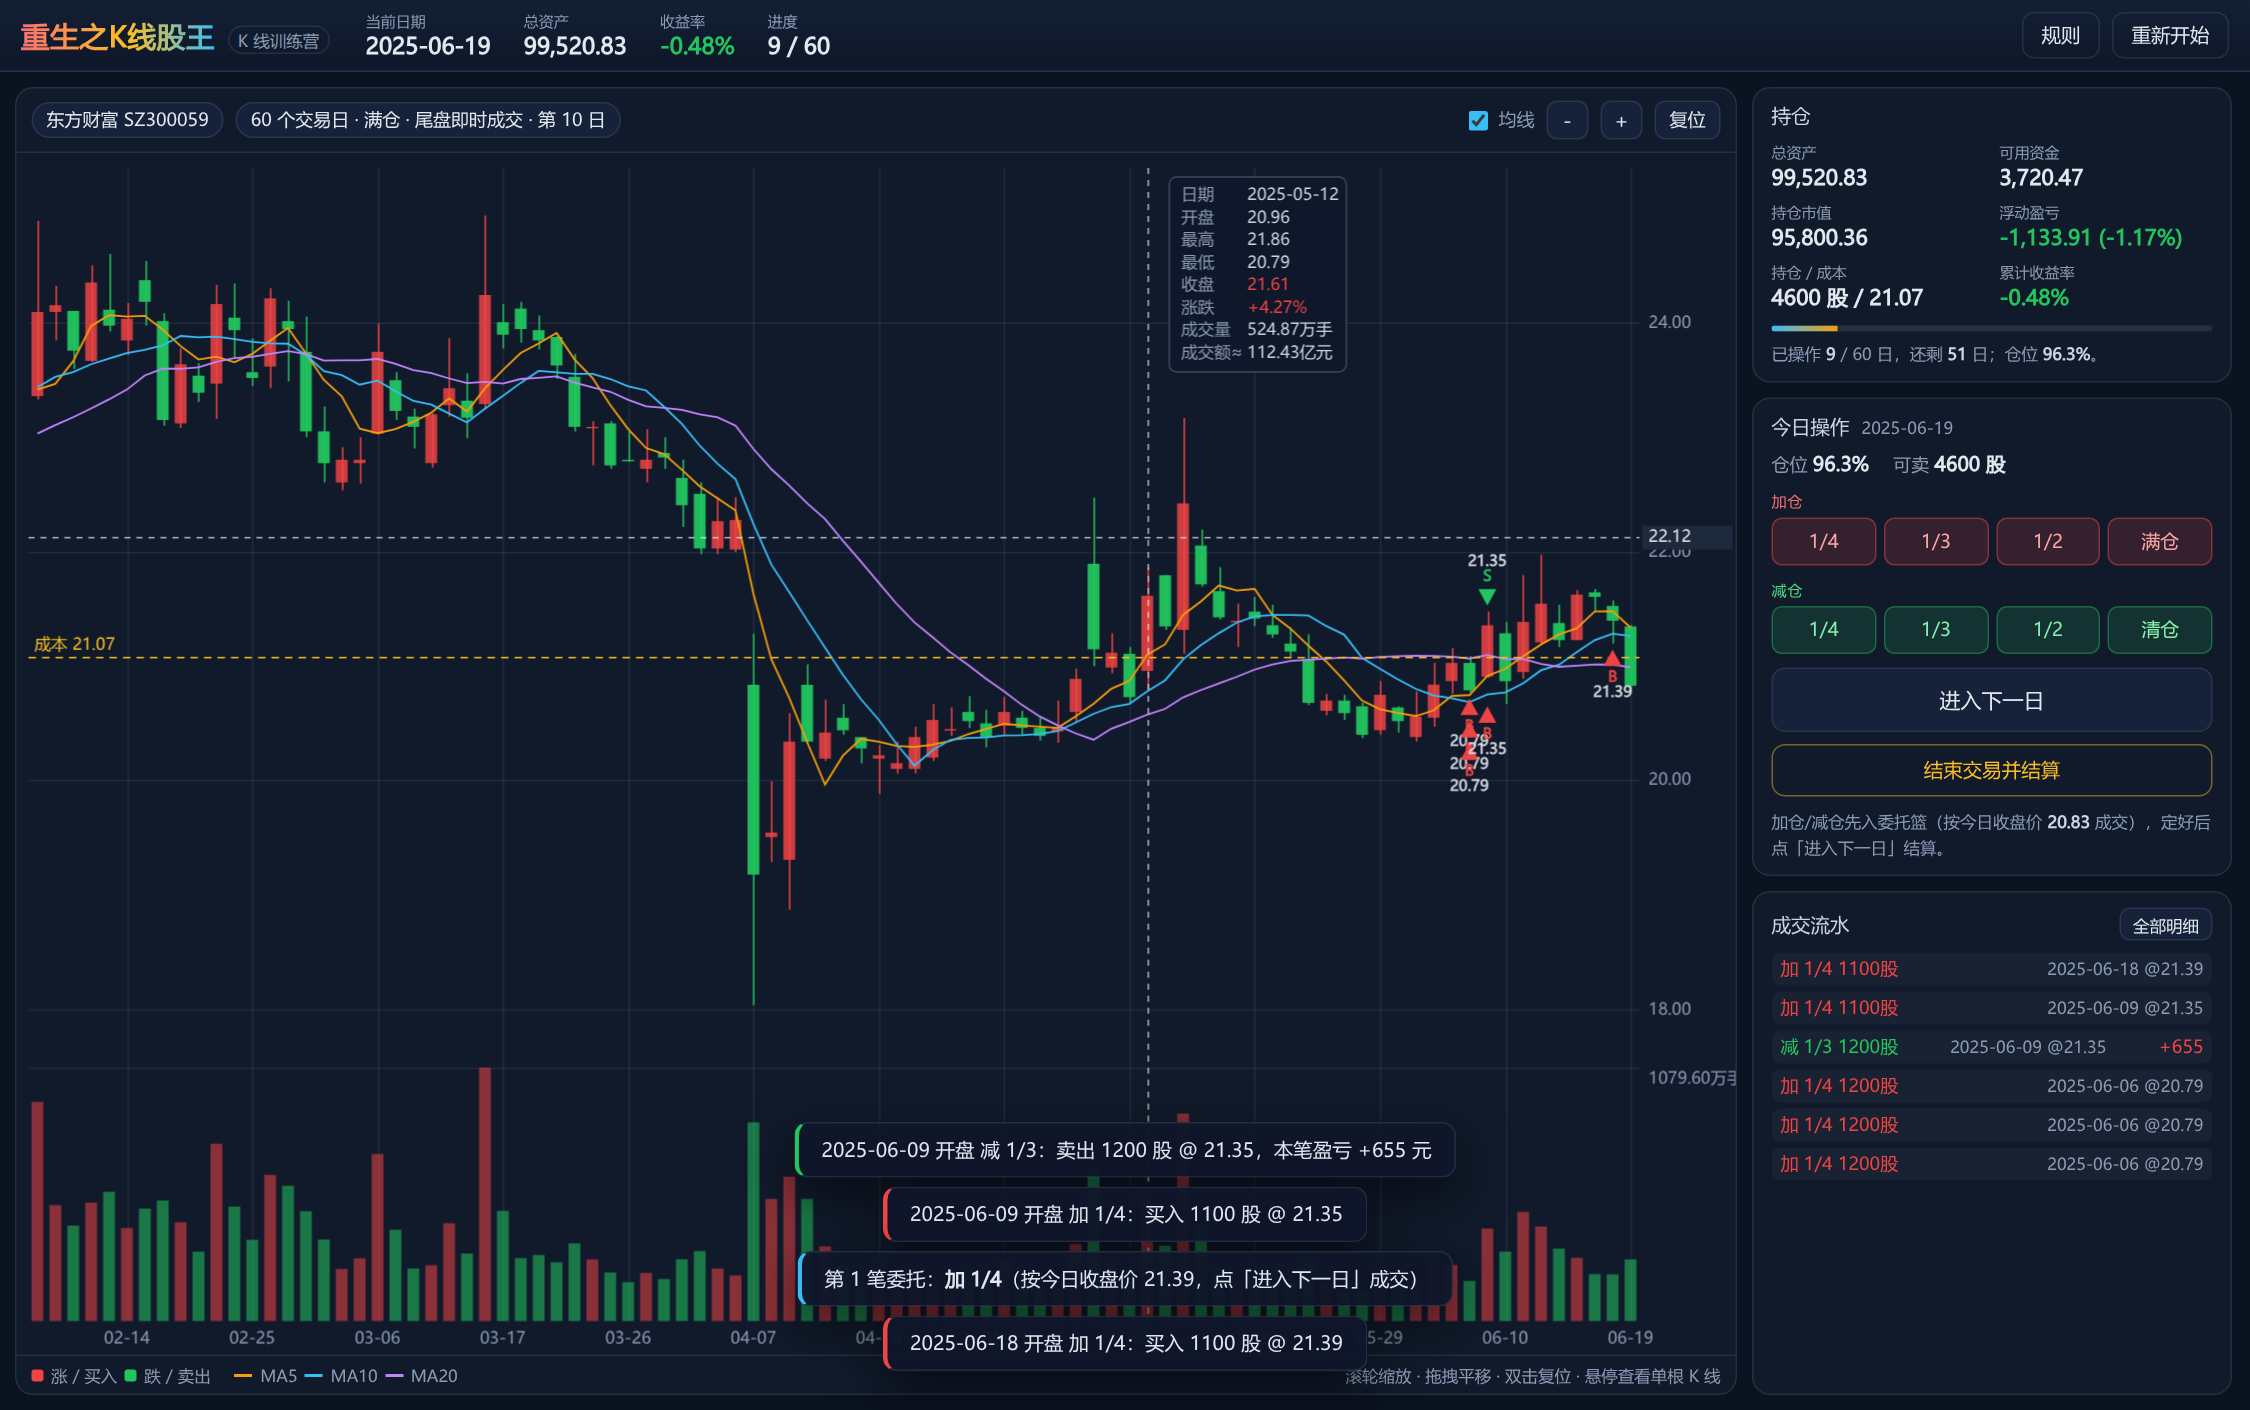
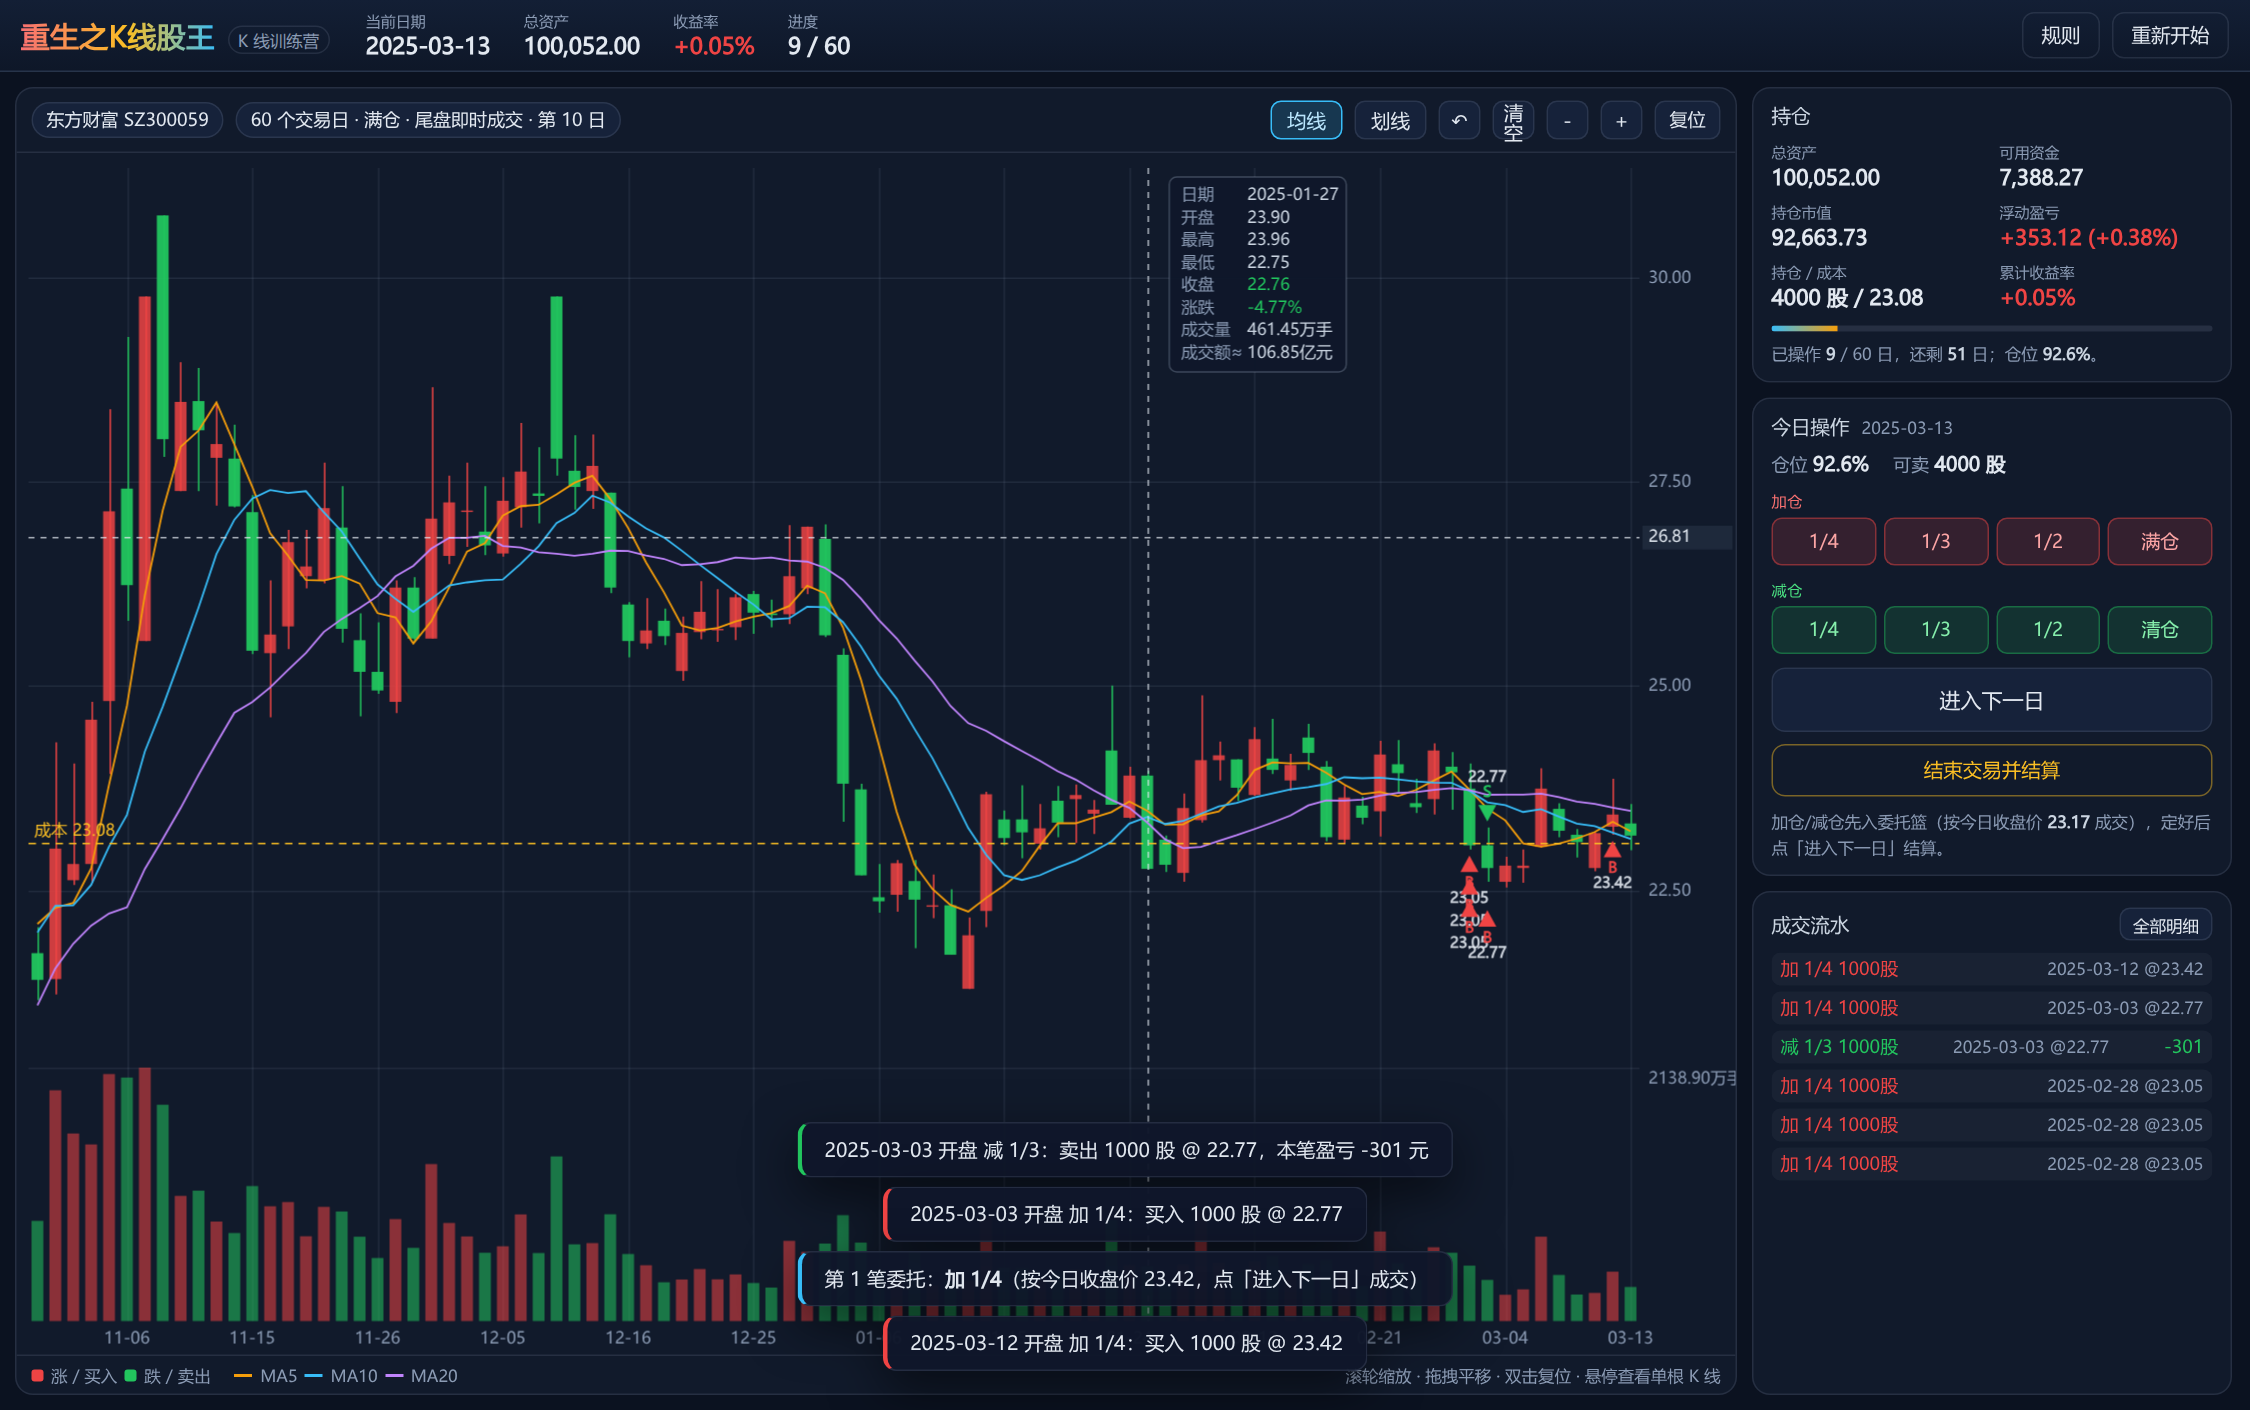
feat: 均线开关做成工具条按钮 + 新增手动划线
1. 均线开关
   - 原来藏在图上方的小勾选框里（功能是好的，但太不显眼），改成工具条上的「均线」开关按钮，
     默认打开、点一下关闭，有明确的开启/关闭高亮态与提示

2. 手动划线
   - 工具条新增：「划线」（模式开关）、「↶」撤销上一条、「清空」
   - 交互：按住鼠标=起点，拖动实时预览（虚线），松开=终点；太短（起终点重合）自动丢弃
   - 锚在数据坐标 (bar 下标, 价格)，所以缩放 / 平移 / 进入下一日都不会漂；
     线中点标出这条线两端的价格涨跌（涨红跌绿），端点画圆点，整条线裁剪在价格区内
   - 划线模式下拖拽=画线，退出后拖拽恢复平移；滚轮缩放两种模式下都可用
   - 换股票开新局时自动清空画线

3. 其它
   - 底部提示随模式切换（划线模式显示操作说明）
   - 暴露 window.__kline 调试/自动化钩子
   - E2E 新增两节：均线开关（像素级断言：默认 8486 → 关闭 0 → 再开恢复）、
     划线（数据坐标锚点、缩放不漂、撤销、清空、退出后恢复平移），全部通过
   - README 补玩法说明与截图 docs/assets/lines.png

diff --git a/docs/js/chart.js b/docs/js/chart.js
@@ -40,6 +40,9 @@ export class KChart {
     this.drag = null;
     this.maPeriods = [5, 10, 20];
     this.showMA = true;
+    this.lines = [];        // 手动画线，锚在「数据坐标」(bar 下标, 价格)，缩放平移后不会漂
+    this.drawMode = false;
+    this.draft = null;
     this._bindEvents();
     this._ro = new ResizeObserver(() => this.resize());
     this._ro.observe(canvas.parentElement || canvas);
@@ -51,6 +54,8 @@ export class KChart {
     this.bars = bars;
     this.limit = limit;
     this.hover = null;
+    this.lines = [];
+    this.draft = null;
     if (bars) {
       this.ma = this.maPeriods.map(p => movingAverage(bars.close, p));
       const end = limit;
@@ -73,6 +78,17 @@ export class KChart {
   }
 
   setMarks(marks) { this.marks = marks || []; this.render(); }
+
+  /** 手动划线模式开关 */
+  setDrawMode(on) {
+    this.drawMode = !!on;
+    this.draft = null;
+    this.canvas.style.cursor = this.drawMode ? 'crosshair' : 'default';
+    this.render();
+  }
+
+  clearLines() { this.lines = []; this.draft = null; this.render(); return this.lines.length; }
+  undoLine() { const n = this.lines.pop(); this.draft = null; this.render(); return !!n; }
   setCost(price) { this.cost = price; this.render(); }
   setShowMA(on) { this.showMA = !!on; this.render(); }
 
@@ -171,6 +187,7 @@ export class KChart {
 
     const yP = p => g.price.y + (pmax - p) / (pmax - pmin) * g.price.h;
     const yV = v => g.vol.y + g.vol.h - (v / vmax) * g.vol.h;
+    this._scale = { pmin, pmax };          // 供屏幕坐标 ↔ 数据坐标换算
 
     // --- 网格与价格轴
     ctx.font = '11px ui-monospace, SFMono-Regular, Menlo, monospace';
@@ -291,6 +308,48 @@ export class KChart {
       ctx.font = '11px ui-monospace, SFMono-Regular, Menlo, monospace';
     }
 
+    // --- 手动画线（剪裁在价格区内）
+    if (this.lines.length || this.draft) {
+      ctx.save();
+      ctx.beginPath();
+      ctx.rect(g.price.x, g.price.y, g.price.w, g.price.h);
+      ctx.clip();
+      const stroke = (L, dashed) => {
+        const x0 = this._x(L.i0, g), y0 = yP(L.p0);
+        const x1 = this._x(L.i1, g), y1 = yP(L.p1);
+        ctx.save();
+        ctx.strokeStyle = '#e2e8f0';
+        ctx.lineWidth = dashed ? 1.2 : 1.6;
+        ctx.shadowColor = 'rgba(2,6,23,.95)';
+        ctx.shadowBlur = 4;
+        if (dashed) ctx.setLineDash([5, 4]);
+        ctx.beginPath(); ctx.moveTo(x0, y0); ctx.lineTo(x1, y1); ctx.stroke();
+        ctx.restore();
+        if (!dashed) {
+          ctx.fillStyle = '#e2e8f0';
+          for (const [x, y] of [[x0, y0], [x1, y1]]) {
+            ctx.beginPath(); ctx.arc(x, y, 2.6, 0, Math.PI * 2); ctx.fill();
+          }
+          if (L.p0 > 0 && Math.abs(L.i1 - L.i0) >= 2) {
+            const chg = L.p1 / L.p0 - 1;
+            const mx = (x0 + x1) / 2, my = (y0 + y1) / 2;
+            ctx.font = '10px ui-monospace, SFMono-Regular, Menlo, monospace';
+            ctx.textAlign = 'center'; ctx.textBaseline = 'middle';
+            const txt = (chg >= 0 ? '+' : '') + (chg * 100).toFixed(2) + '%';
+            const w = ctx.measureText(txt).width + 8;
+            const ly = my - 13 < g.price.y + 8 ? my + 13 : my - 13;
+            ctx.fillStyle = 'rgba(15,23,42,.9)';
+            ctx.fillRect(mx - w / 2, ly - 7, w, 14);
+            ctx.fillStyle = chg >= 0 ? '#fca5a5' : '#86efac';
+            ctx.fillText(txt, mx, ly);
+          }
+        }
+      };
+      for (const L of this.lines) stroke(L, false);
+      if (this.draft && (this.draft.i0 !== this.draft.i1 || this.draft.p0 !== this.draft.p1)) stroke(this.draft, true);
+      ctx.restore();
+    }
+
     // --- 十字光标
     if (this.hover != null && this.hover >= vf && this.hover <= vt) {
       const i = this.hover;
@@ -350,6 +409,15 @@ export class KChart {
     ctx.textBaseline = 'alphabetic';
   }
 
+  /** 屏幕坐标 → 数据坐标（bar 下标 + 价格），用于手动画线的锚点 */
+  toData(px, py) {
+    const g = this._geom();
+    const s = this._scale || { pmin: 0, pmax: 1 };
+    const i = this._idxAt(px, g);
+    const p = s.pmax - (py - g.price.y) / g.price.h * (s.pmax - s.pmin);
+    return { i, p: Math.round(p * 100) / 100 };
+  }
+
   // ---- 交互 --------------------------------------------------------------
   _bindEvents() {
     const el = this.canvas;
@@ -371,6 +439,14 @@ export class KChart {
 
     el.addEventListener('pointerdown', e => {
       if (!this.bars) return;
+      const rect = el.getBoundingClientRect();
+      if (this.drawMode) {                       // 划线模式：按下=起点
+        el.setPointerCapture(e.pointerId);
+        const d = this.toData(e.clientX - rect.left, e.clientY - rect.top);
+        this.draft = { i0: d.i, p0: d.p, i1: d.i, p1: d.p };
+        this.render();
+        return;
+      }
       el.setPointerCapture(e.pointerId);
       this.drag = { x: e.clientX, from: this.viewFrom, to: this.viewTo, moved: false };
     });
@@ -378,6 +454,13 @@ export class KChart {
       if (!this.bars) return;
       const rect = el.getBoundingClientRect();
       const px = e.clientX - rect.left, py = e.clientY - rect.top;
+      if (this.drawMode && this.draft) {         // 拖动中：实时预览终点
+        const d = this.toData(px, py);
+        this.draft.i1 = d.i;
+        this.draft.p1 = d.p;
+        this.render();
+        return;
+      }
       if (this.drag) {
         const g = this._geom();
         const cw = g.plotW / (this.drag.to - this.drag.from + 1);
@@ -395,7 +478,16 @@ export class KChart {
       this.hoverY = py;
       this.render();
     });
-    const endDrag = () => { this.drag = null; };
+    const endDrag = () => {
+      if (this.draft) {                          // 松开=终点，太短就丢弃
+        const L = this.draft;
+        if (L.i1 !== L.i0 || L.p1 !== L.p0) this.lines.push({ ...L });
+        this.draft = null;
+        this.render();
+        if (this.onLineChange) this.onLineChange(this.lines.length);
+      }
+      this.drag = null;
+    };
     el.addEventListener('pointerup', endDrag);
     el.addEventListener('pointercancel', endDrag);
     el.addEventListener('pointerleave', () => {

diff --git a/docs/js/app.js b/docs/js/app.js
@@ -617,7 +617,35 @@ function bind() {
     renderTrades();
   }));
 
-  $('chk-ma').addEventListener('change', e => state.chart.setShowMA(e.target.checked));
+  // 均线开关（默认开）
+  $('btn-ma').addEventListener('click', () => {
+    const on = !state.chart.showMA;
+    state.chart.setShowMA(on);
+    $('btn-ma').classList.toggle('on', on);
+    toast(on ? '已显示均线 MA5 / MA10 / MA20' : '已关闭均线显示', 'info', 1600);
+  });
+
+  // 手动划线
+  $('btn-draw').addEventListener('click', () => {
+    const on = !state.chart.drawMode;
+    state.chart.setDrawMode(on);
+    $('btn-draw').classList.toggle('on', on);
+    $('chart-tip').textContent = on
+      ? '划线模式：在图上按住鼠标拖出一条直线，松开即完成；再点「划线」退出'
+      : '滚轮缩放 · 拖拽平移 · 双击复位 · 悬停查看单根 K 线';
+    if (on) toast('划线模式：按住鼠标拖出一条直线，松开即完成', 'info', 2400);
+  });
+  $('btn-undo-line').addEventListener('click', () => {
+    if (state.chart.undoLine()) toast('已撤销上一条线', 'info', 1400);
+    else toast('没有可撤销的线', 'warn', 1400);
+  });
+  $('btn-clear-line').addEventListener('click', () => {
+    const n = state.chart.lines.length;
+    state.chart.clearLines();
+    toast(n ? `已清空 ${n} 条线` : '当前没有画线', n ? 'info' : 'warn', 1400);
+  });
+  state.chart.onLineChange = (n) => toast(`已画第 ${n} 条线`, 'info', 1400);
+
   $('btn-zoom-in').addEventListener('click', () => zoomBy(0.8));
   $('btn-zoom-out').addEventListener('click', () => zoomBy(1.25));
   $('btn-reset-view').addEventListener('click', () => {
@@ -648,6 +676,7 @@ function zoomBy(k) {
 // ---------------------------------------------------------------- 启动
 async function init() {
   state.chart = new KChart($('chart'));
+  window.__kline = state;        // 调试/自动化测试钩子：__kline.chart / __kline.session
   bind();
   updateFillHint();
   try {

diff --git a/docs/index.html b/docs/index.html
@@ -33,7 +33,10 @@
       <span id="stock-label" class="pill">—</span>
       <span id="period-label" class="pill">—</span>
       <span class="spacer"></span>
-      <label class="chk"><input type="checkbox" id="chk-ma" checked> 均线</label>
+      <button class="mini toggle on" id="btn-ma" title="显示 / 隐藏均线（默认显示）">均线</button>
+      <button class="mini toggle" id="btn-draw" title="手动划线：按住鼠标拖出一条直线">划线</button>
+      <button class="mini" id="btn-undo-line" title="撤销上一条线">↶</button>
+      <button class="mini" id="btn-clear-line" title="清空所有手画线">清空</button>
       <button class="mini" id="btn-zoom-out" title="缩小">－</button>
       <button class="mini" id="btn-zoom-in" title="放大">＋</button>
       <button class="mini" id="btn-reset-view" title="显示最后 120 根">复位</button>
@@ -42,7 +45,7 @@
     <div id="chart-foot">
       <span class="legend"><i class="dot" style="background:#ef4444"></i>涨 / 买入 <i class="dot" style="background:#22c55e"></i>跌 / 卖出</span>
       <span class="legend"><i class="line" style="background:#f59e0b"></i>MA5 <i class="line" style="background:#38bdf8"></i>MA10 <i class="line" style="background:#c084fc"></i>MA20</span>
-      <span class="legend muted">滚轮缩放 · 拖拽平移 · 双击复位 · 悬停查看单根 K 线</span>
+      <span class="legend muted" id="chart-tip">滚轮缩放 · 拖拽平移 · 双击复位 · 悬停查看单根 K 线</span>
     </div>
   </section>
 

diff --git a/docs/css/app.css b/docs/css/app.css
@@ -87,6 +87,11 @@ b { font-variant-numeric: tabular-nums; }
 }
 .mini:last-of-type { width: auto; padding: 0 9px; font-size: 12px; }
 .mini:hover { border-color: rgba(148,163,184,.5); }
+.mini.toggle { width: auto; padding: 0 10px; }
+.mini.toggle.on {
+  background: rgba(56,189,248,.18); border-color: var(--accent);
+  color: #bae6fd; font-weight: 600;
+}
 #chart-box { position: relative; flex: 1 1 auto; min-height: 0; }
 #chart-box canvas { display: block; position: absolute; inset: 0; }
 #chart-foot {

diff --git a/README.md b/README.md
@@ -9,10 +9,13 @@
 ![训练界面](docs/assets/session.png)
 
 <p align="center">
-  <img src="docs/assets/setup.png" width="24%" alt="开局设置">
-  <img src="docs/assets/pending.png" width="24%" alt="今日委托篮">
-  <img src="docs/assets/result.png" width="24%" alt="结算面板">
-  <img src="docs/assets/trades.png" width="24%" alt="成交明细">
+  <img src="docs/assets/setup.png" width="32%" alt="开局设置">
+  <img src="docs/assets/pending.png" width="32%" alt="今日委托篮">
+  <img src="docs/assets/lines.png" width="32%" alt="均线开关与手动划线">
+</p>
+<p align="center">
+  <img src="docs/assets/result.png" width="32%" alt="结算面板">
+  <img src="docs/assets/trades.png" width="32%" alt="成交明细">
 </p>
 
 ---
@@ -24,7 +27,12 @@
    - 默认加仓比例：满仓 / 1/2 / 1/3 / 1/4（下单时仍可用按钮临时改）。
    - **成交口径**：`尾盘即时成交` 或 `次日开盘价成交`（见下方规则，这是两种不同训练模式）。
    - 操作交易日：30 / 60 / 90 个交易日；初始资金（默认 10 万）、是否计入交易费用。
-2. **读图**：随机日期**之前 3 个月**（≈60 个交易日）的 K 线与成交量柱会画出来，之后每天揭示一根。
+2. **读图与画线**：随机日期**之前 3 个月**（≈60 个交易日）的 K 线与成交量柱会画出来，之后每天揭示一根。
+   图上方工具栏：`均线`（MA5/10/20，**默认打开**，点一下可关）、`划线`、`↶`（撤销上一条）、
+   `清空`、`－`/`＋`（缩放）、`复位`。
+   **划线**：点 `划线` 进入划线模式，在图上**按住鼠标拖出一条直线，松开即完成**（可画多条）；
+   线中点会标出这条线两端的价格涨跌。画线锚在**数据坐标**（K 线位置 + 价格），
+   缩放、平移、进入下一日都不会漂。再点一次 `划线` 退出，退出后拖拽恢复为平移。
 3. **下委托**：每天有 `加仓 1/4 · 1/3 · 1/2 · 满仓` 与 `减仓 1/4 · 1/3 · 1/2 · 清仓` 八个按钮，
    点一下就往「**今日委托**」篮里加一笔（带 1/2/3… 顺序号）；
    成交前可以随时点标签上的 `×`（或按 `Z`）撤销。
@@ -92,7 +100,7 @@ kline-camp/
 │   ├── css/app.css           深色主题（红涨绿跌）
 │   ├── js/decode.js          KLC1 二进制行情解码
 │   ├── js/sim.js             训练仿真引擎（下单/推进分离、双成交口径、加减仓、T+1、成交快照）
-│   ├── js/chart.js           Canvas K线 + 成交量 + 标记 + 十字光标
+│   ├── js/chart.js           Canvas K线 + 成交量 + 标记 + 均线开关 + 手动划线 + 十字光标
 │   ├── js/app.js             主控制器（设置 / 下单 / 结算 / 渲染）
 │   └── data/                 构建产物：{code}.bin × 4997 + index.json + manifest.json
 ├── src/                      数据层（复用 workspace 既有 stockpick 工程实现）
